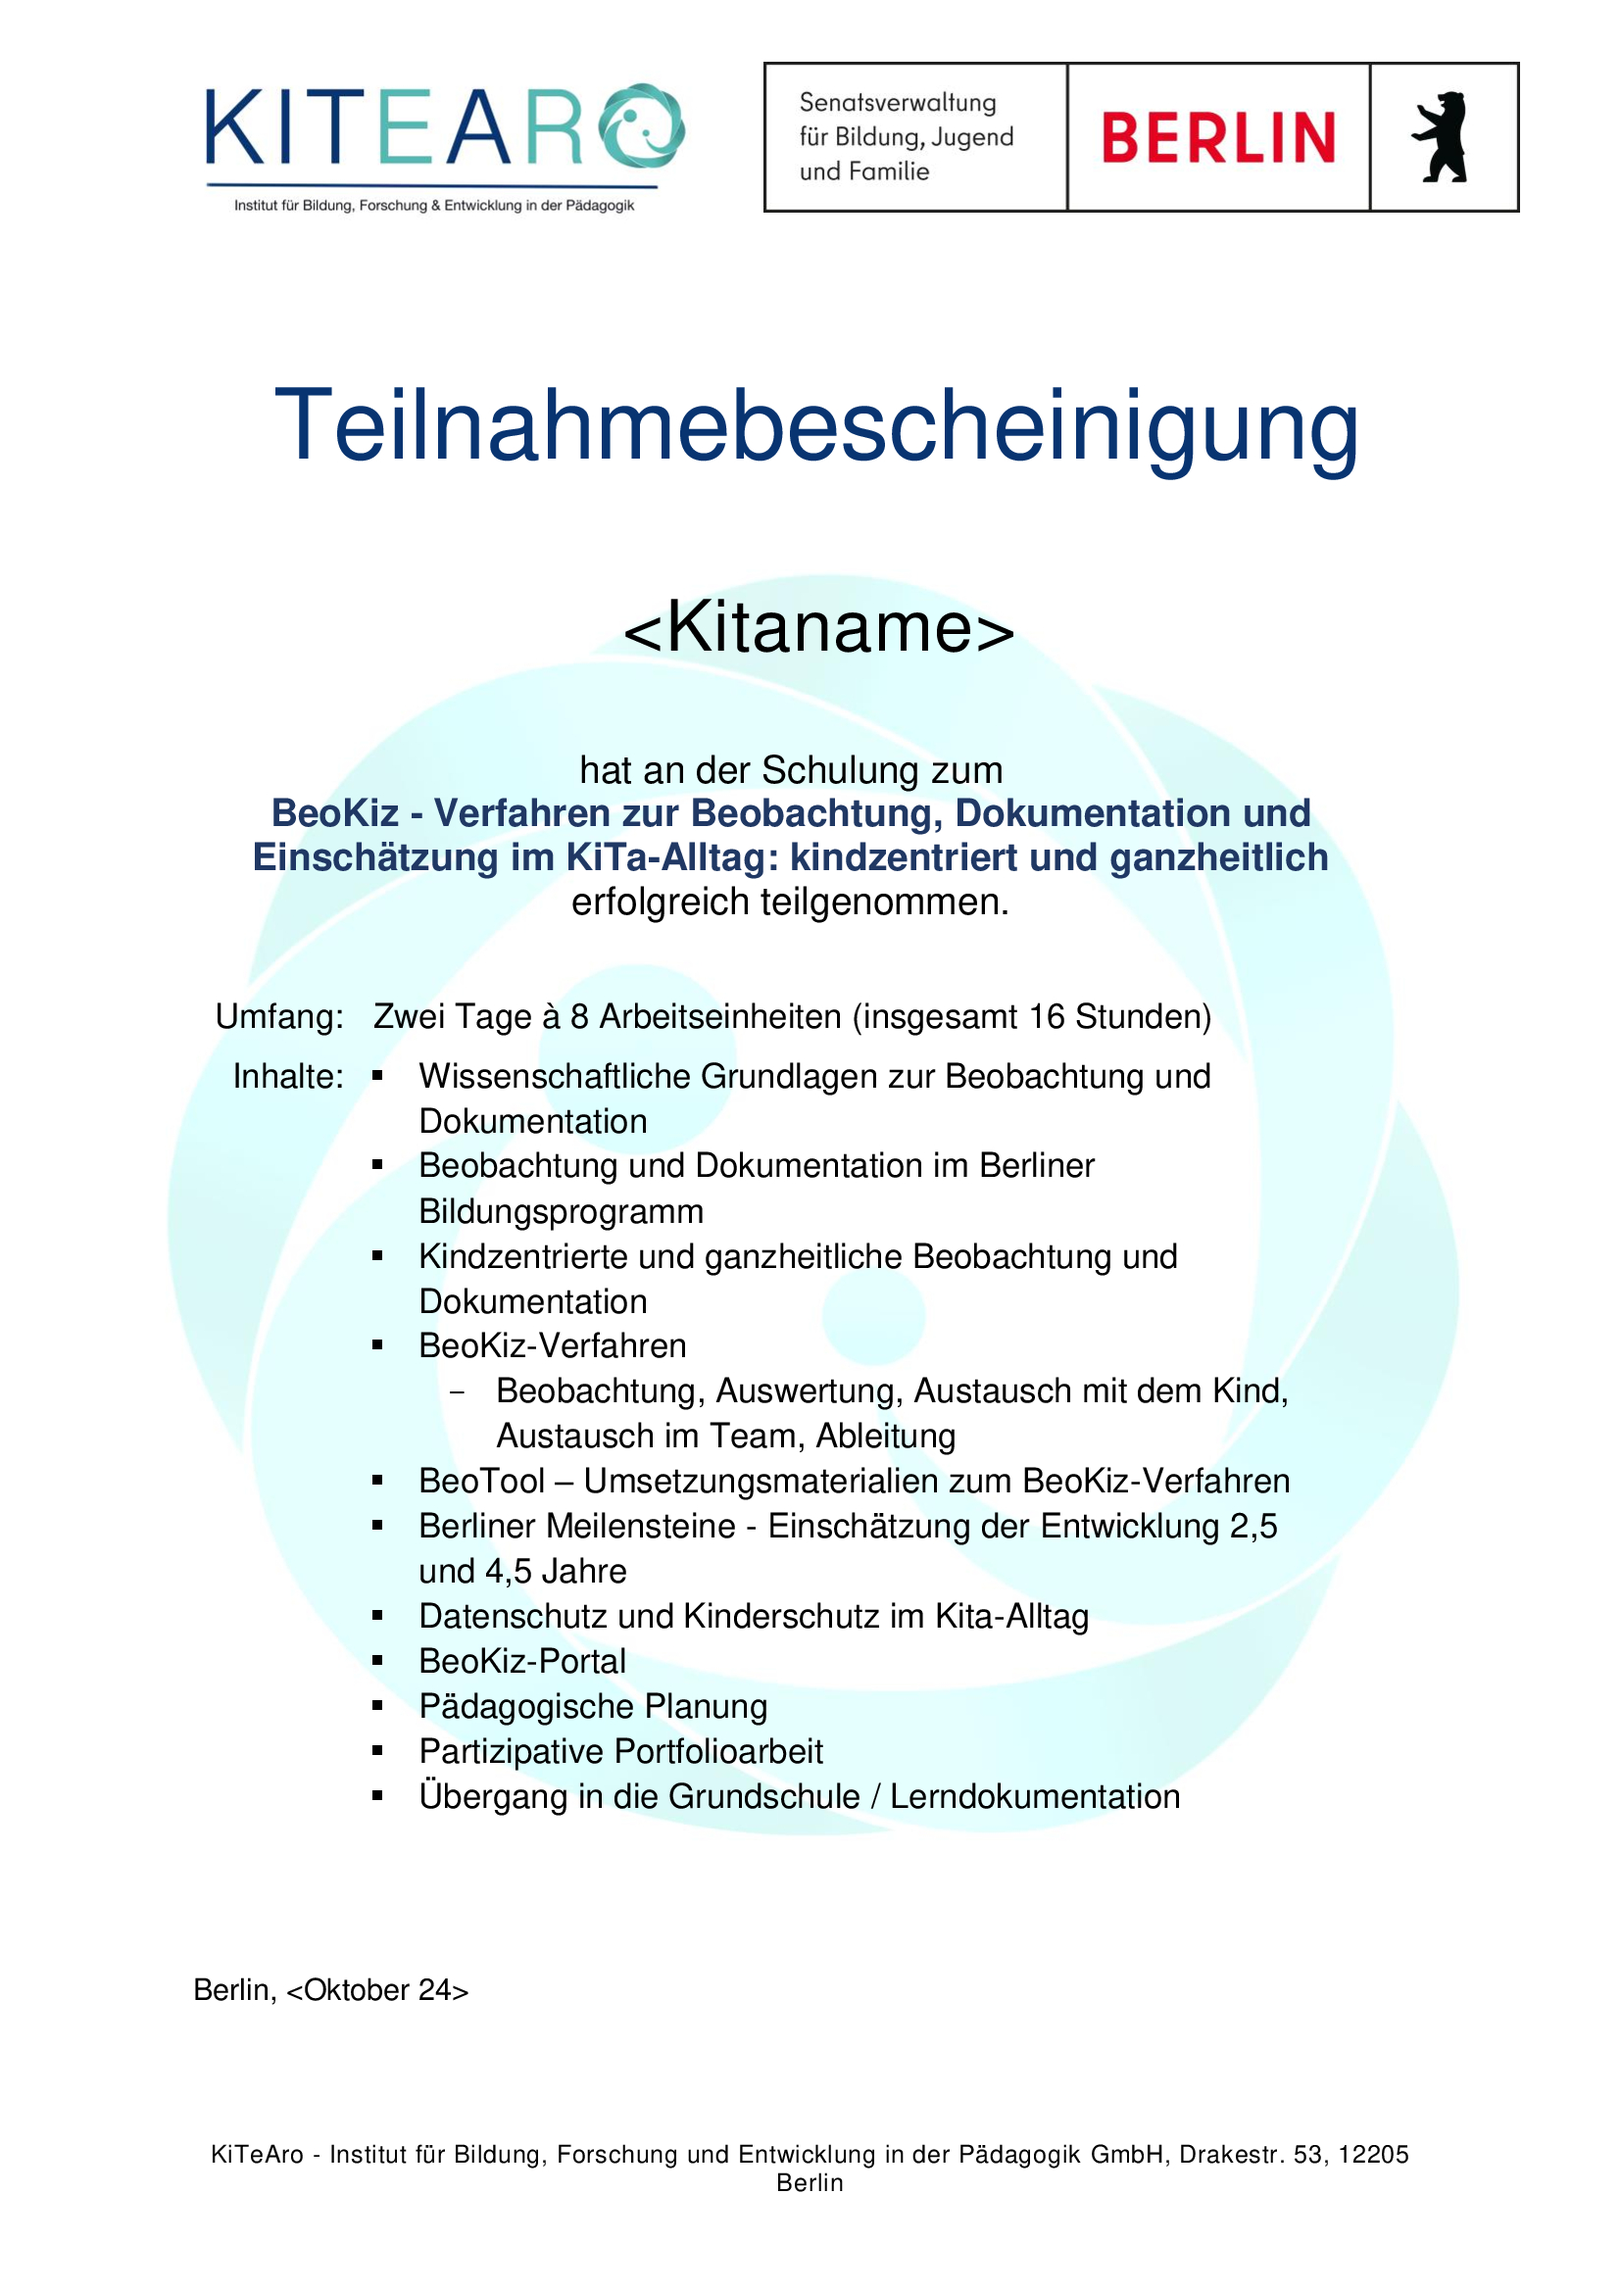
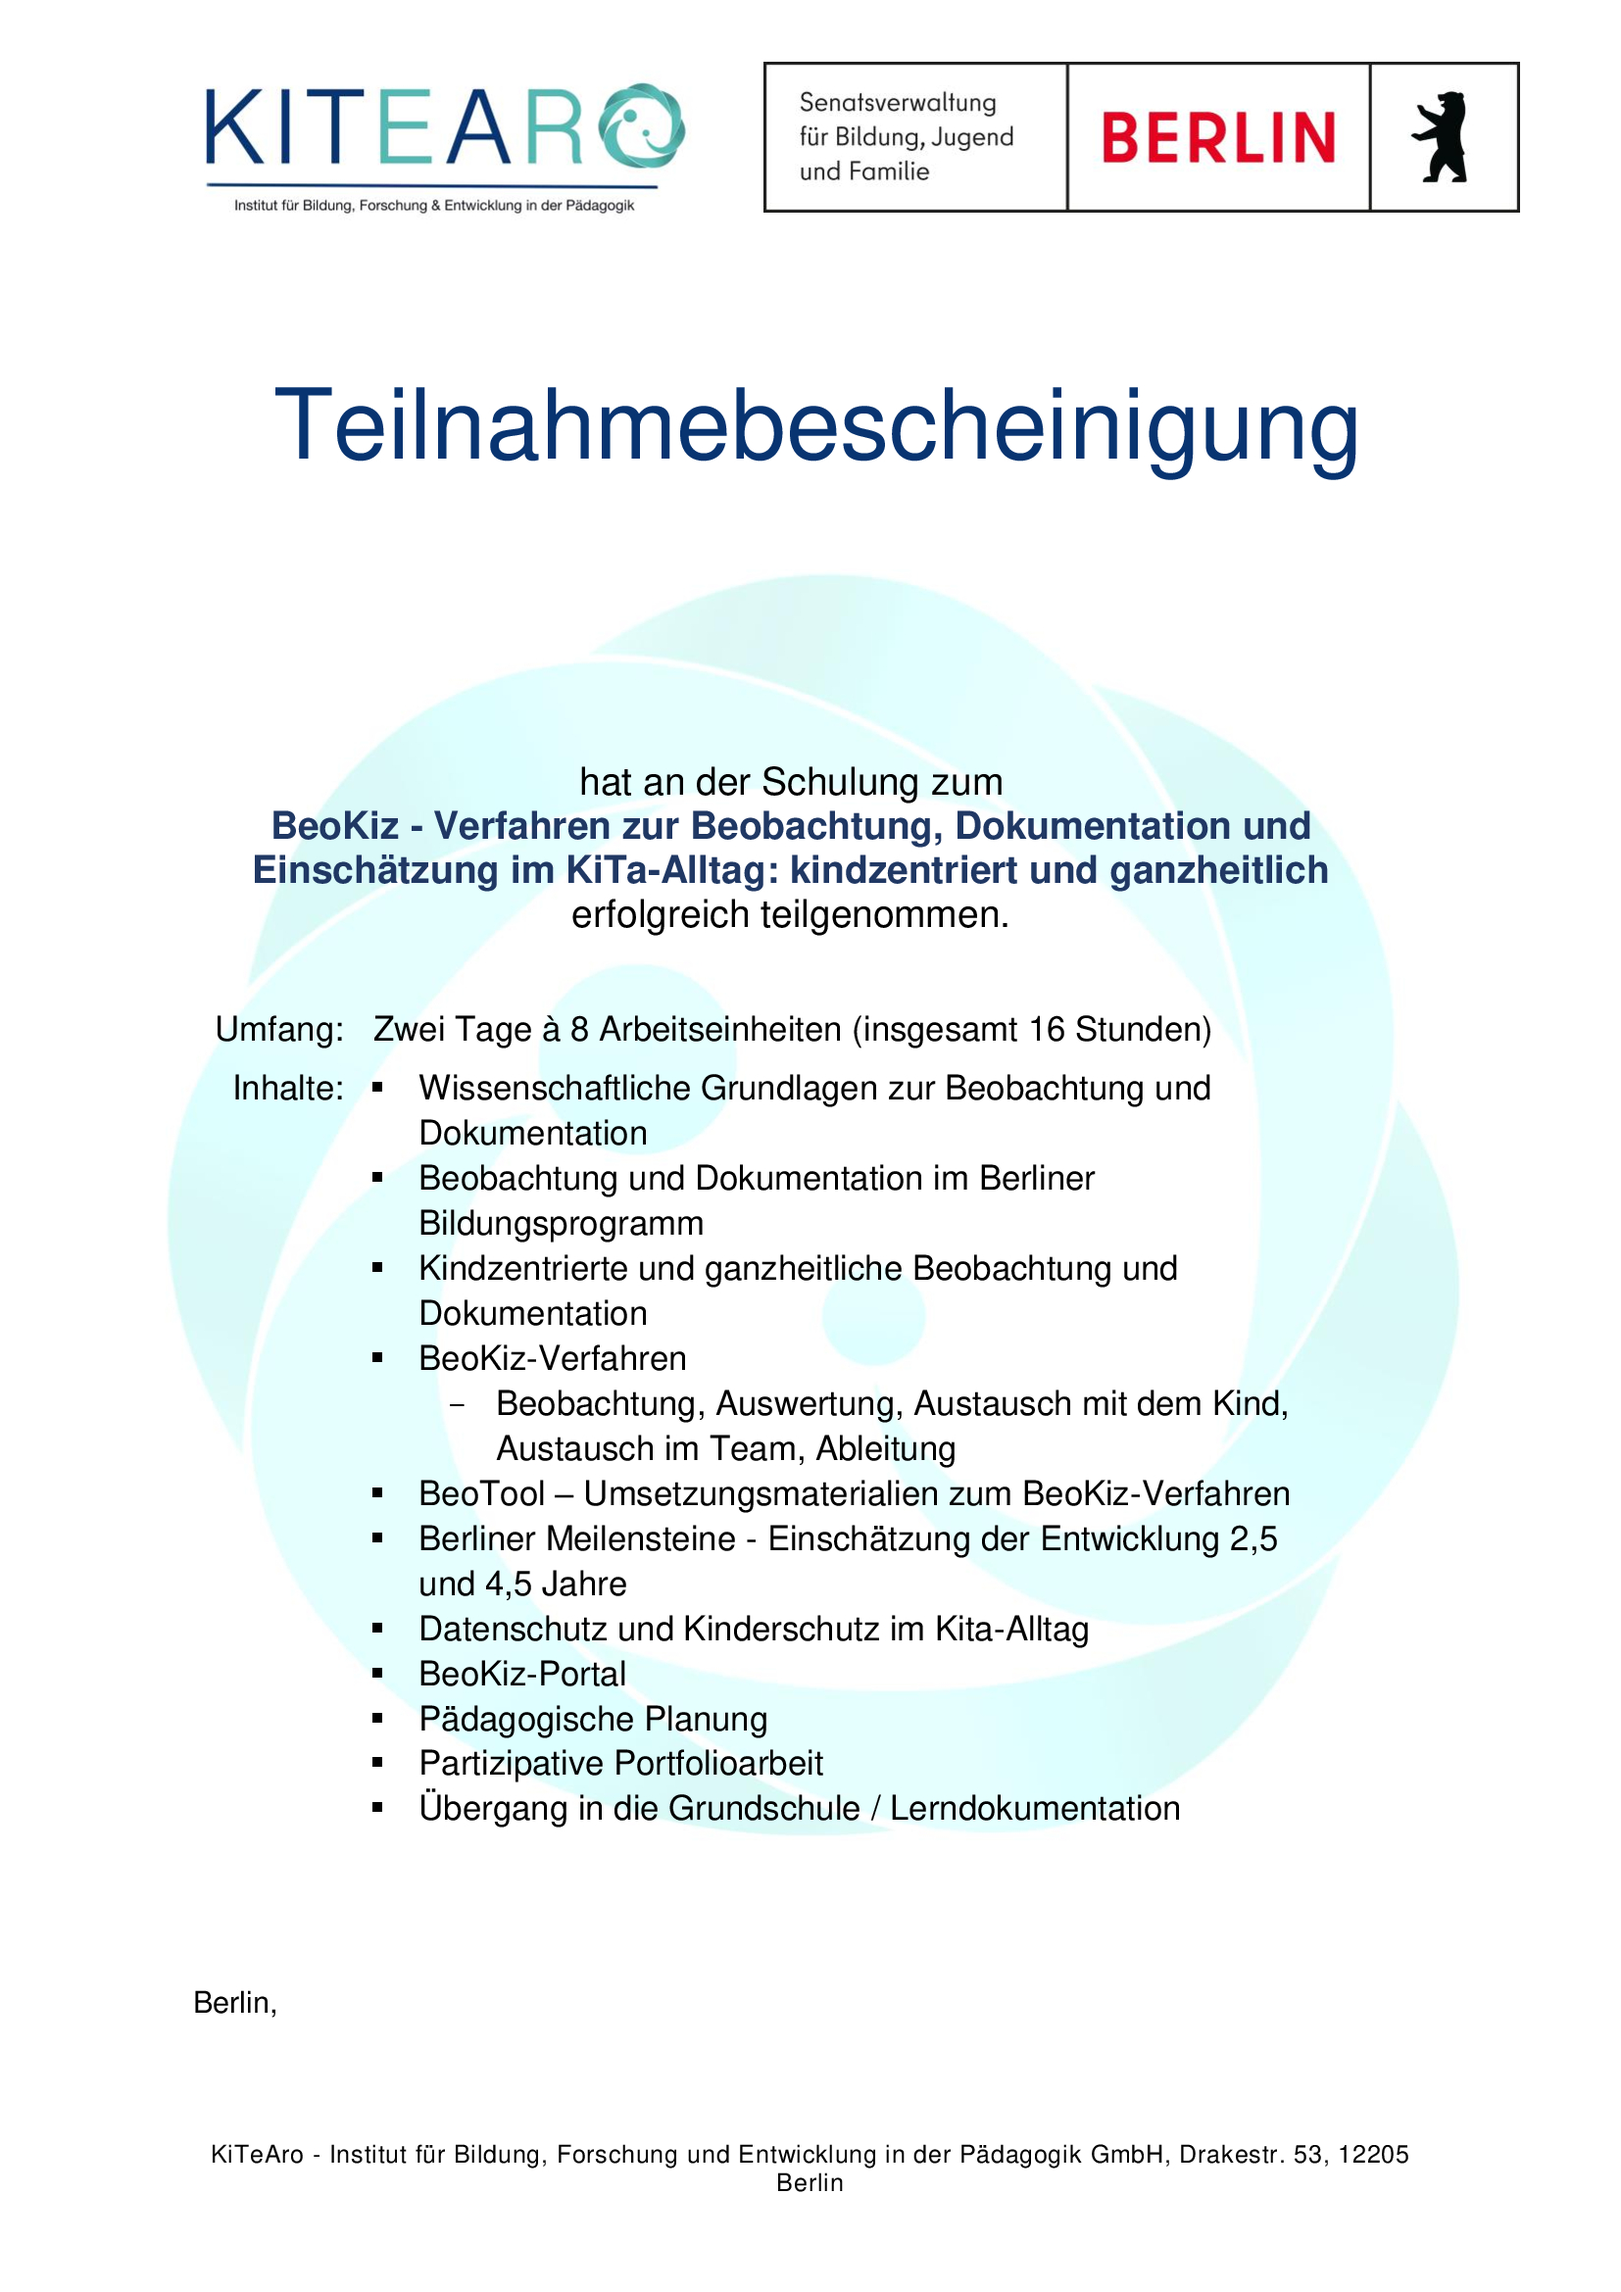
Prepared for testing task #10

diff --git a/resources/css/pdf.css b/resources/css/pdf.css
@@ -3,6 +3,9 @@
  * Copyright (c) 2023  Vlad Horpynych <19dynamo27@gmail.com>, Pavel Karpushevskiy <pkarpushevskiy@gmail.com>
  */
 
+/*
+ * Evaluation PDF
+ */
 .domains-list-container {
     width: 100%;
 }
@@ -80,4 +83,34 @@
     float: left;
     width: 25%;
     text-align: center;
+}
+
+/*
+ * Certificate PDF
+ */
+.kita-certificate {
+    position: fixed;
+    top: -0.75cm;
+    bottom: -1cm;
+    left: -1cm;
+    right: -1cm;
+    background-position: 50%;
+    background-repeat: no-repeat;
+    background-size: contain;
+}
+
+.kita-certificate .kita-name {
+    position: absolute;
+    top: calc(20% + 25px);
+    left: calc(50% - 65px);
+    font-family: Arial;
+    font-size: 35px;
+}
+
+.kita-certificate .date {
+    position: absolute;
+    bottom: calc(10% + 6px);
+    left: calc(20% - 5px);
+    font-family: Arial;
+    font-size: 14px;
 }

diff --git a/app/Http/Controllers/KitaController.php b/app/Http/Controllers/KitaController.php
@@ -13,7 +13,6 @@ use App\Http\Requests\Kitas\DisconnectUserFromKitaRequest;
 use App\Http\Requests\Kitas\DisconnectUsersFromKitaRequest;
 use App\Http\Requests\Kitas\ReorderKitasRequest;
 use App\Http\Requests\Kitas\UpdateKitaRequest;
-use App\Interfaces\FileGenerators\PdfGeneratorServiceInterface;
 use App\Models\Kita;
 use App\Models\Operator;
 use App\Models\User;
@@ -22,7 +21,6 @@ use App\Services\Items\OperatorItemService;
 use App\Services\Items\RoleItemService;
 use App\Services\Items\UserItemService;
 use Illuminate\Http\Request;
-use Illuminate\Support\Carbon;
 use Illuminate\Support\Facades\Redirect;
 use Illuminate\Support\Facades\Response;
 use Inertia\Inertia;
@@ -233,40 +231,20 @@ class KitaController extends BaseController
     /**
      * @param Request $request
      * @param Kita    $kita
-     * @return \Illuminate\Http\RedirectResponse
+     * @return \Illuminate\Http\RedirectResponse|\Symfony\Component\HttpFoundation\BinaryFileResponse
      * @throws \Illuminate\Auth\Access\AuthorizationException
      */
     public function sendKitaCertificateNotification(Request $request, Kita $kita)
     {
-        $this->authorize('authorizeAccessToSingleKita', User::class);
+        $this->authorize('authorizeAccessToSingleKita', [User::class, $kita->id]);
 
-        /*
-         * Generate PDF file
-         */
-        $pdfGeneratorService = app(PdfGeneratorServiceInterface::class);
+        $pdfFile = $this->kitaItemService->generatePdfCertificate($kita->id);
 
-        Carbon::setLocale('de');
+        if (!empty($pdfFile)) {
 
-        $pdfHeaderFooterData = [
-            'header' => [],
-            'footer' => [
-                'display_document_meta' => false,
-            ],
-        ];
+        } else {
 
-        $pdfFile = $pdfGeneratorService->createFromBlade(
-            'file-templates.pdf.kita-certificate',
-            [
-                'kita_name' => $kita->name,
-                'date'      => Carbon::now()->translatedFormat('d F'),
-            ],
-            [
-                'file_name'   => 'BeoKiz_Teilnahmebescheinigung',
-                'header-html' => view('layouts.pdf-components.pdf-file-spatie-header', ['headerData' => $pdfHeaderFooterData['header']])->render(),
-                'footer-html' => view('layouts.pdf-components.pdf-file-spatie-footer', ['footerData' => $pdfHeaderFooterData['footer']])->render(),
-            ],
-            false
-        );
+        }
 
         return $pdfFile ?
             Response::download($pdfFile, basename($pdfFile), [

diff --git a/app/Services/Items/KitaItemService.php b/app/Services/Items/KitaItemService.php
@@ -6,9 +6,12 @@
 
 namespace App\Services\Items;
 
+use App\Interfaces\FileGenerators\PdfGeneratorServiceInterface;
 use App\Models\Kita;
 use Batch;
 use Illuminate\Support\Arr;
+use Illuminate\Support\Carbon;
+use Illuminate\Support\Str;
 
 /**
  * Kita Item Service
@@ -90,6 +93,44 @@ class KitaItemService extends BaseItemService
         return $throwExceptionIfFail
             ? Kita::findOrFail($id)
             : Kita::find($id);
+    }
+
+    /**
+     * @param int $id
+     * @return mixed
+     */
+    public function generatePdfCertificate(int $id)
+    {
+        $pdfGeneratorService = app(PdfGeneratorServiceInterface::class);
+
+        $item = $this->find($id, true);
+
+        $item->loadMissing(['users']);
+
+        Carbon::setLocale('de');
+
+        $pdfHeaderFooterData = [
+            'header' => [
+                'hide_logo' => true,
+            ],
+            'footer' => [
+                'display_document_meta' => false,
+            ],
+        ];
+
+        return $pdfGeneratorService->createFromBlade(
+            'file-templates.pdf.kita-certificate',
+            [
+                'kita_name' => $item->name,
+                'date'      => Carbon::now()->translatedFormat('F d'),
+            ],
+            [
+                'file_name'   => 'BeoKiz_Teilnahmebescheinigung',
+                'header-html' => view('layouts.pdf-components.pdf-file-spatie-header', ['headerData' => $pdfHeaderFooterData['header']])->render(),
+                'footer-html' => view('layouts.pdf-components.pdf-file-spatie-footer', ['footerData' => $pdfHeaderFooterData['footer']])->render(),
+            ],
+            false
+        );
     }
 
     /**

diff --git a/routes/web.php b/routes/web.php
@@ -209,7 +209,7 @@ Route::group(['middleware' => ['auth', 'verified', 'verified_2fa']], function ()
         Route::get('/{kita}', [KitaController::class, 'show'])->name('show');
         Route::post('/', [KitaController::class, 'store'])->name('store');
         Route::put('/{kita}', [KitaController::class, 'update'])->name('update');
-        Route::put('/{kita}/send-kita-certificate-notification', [KitaController::class, 'sendKitaCertificateNotification'])->name('send_kita_certificate_notification');
+        Route::post('/{kita}/send-kita-certificate-notification', [KitaController::class, 'sendKitaCertificateNotification'])->name('send_kita_certificate_notification');
         Route::post('/{kita}/connect-user', [KitaController::class, 'connectUser'])->name('connect_user');
         Route::post('/{kita}/connect-users', [KitaController::class, 'connectUsers'])->name('connect_users');
         Route::post('/{kita}/disconnect-user', [KitaController::class, 'disconnectUser'])->name('disconnect_user');

diff --git a/resources/views/layouts/pdf-components/pdf-file-snappy-header.blade.php b/resources/views/layouts/pdf-components/pdf-file-snappy-header.blade.php
@@ -26,11 +26,12 @@
         }
     </script>
 </head>
-
-<body onload="parseSnappyPdfVariables()">
+>
 <div id="report-pdf-image-header">
     <div>
-        <img src="{{ resource_path('images/logo-pdf.png') }}"/>
+        @if(empty($headerData['hide_logo']))
+            <img src="{{ resource_path('images/logo-pdf.png') }}"/>
+        @endif
     </div>
 
     <div>
@@ -42,7 +43,10 @@
             @if(!empty($headerData['report_date']))
                 <li>@lang('files.common.report_date_line', ['date' => $headerData['report_date']])</li>
             @endif
-            <li>@lang('files.common.created_date_line', ['date' => $headerData['current_time']])</li>
+
+            @if(!empty($headerData['current_time']))
+                <li>@lang('files.common.created_date_line', ['date' => $headerData['current_time']])</li>
+            @endif
         </ul>
     </div>
 </div>

diff --git a/resources/views/layouts/pdf-components/pdf-file-spatie-header.blade.php b/resources/views/layouts/pdf-components/pdf-file-spatie-header.blade.php
@@ -68,7 +68,9 @@
 <body>
 <div id="report-pdf-image-header">
     <div>
-        <img src="{{ base64_encode_file_to_uri(resource_path('images/logo-pdf.png')) }}"/>
+        @if(empty($headerData['hide_logo']))
+            <img src="{{ base64_encode_file_to_uri(resource_path('images/logo-pdf.png')) }}"/>
+        @endif
     </div>
 
     <div>
@@ -80,7 +82,10 @@
             @if(!empty($headerData['report_date']))
                 <li>@lang('files.common.created_date_line', ['date' => $headerData['report_date']])</li>
             @endif
-            <li>@lang('files.common.created_date_line', ['date' => $headerData['current_time']])</li>
+
+            @if(!empty($headerData['current_time']))
+                <li>@lang('files.common.created_date_line', ['date' => $headerData['current_time']])</li>
+            @endif
         </ul>
     </div>
 </div>

diff --git a/resources/views/file-templates/common/kita-certificate.blade.php b/resources/views/file-templates/common/kita-certificate.blade.php
@@ -3,7 +3,7 @@
     $date = $data['date'];
 @endphp
 
-<div class="kita-certificate">
-    <p>{{ $kitaName }}</p>
-    <p>{{ $date }}</p>
+<div class="kita-certificate" style="background-image: url({{ base64_encode_file_to_uri(resource_path('images/kita-certificate-template.jpg')) }});">
+    <p class="kita-name">{{ $kitaName }}</p>
+    <p class="date">{{ $date }}</p>
 </div>
